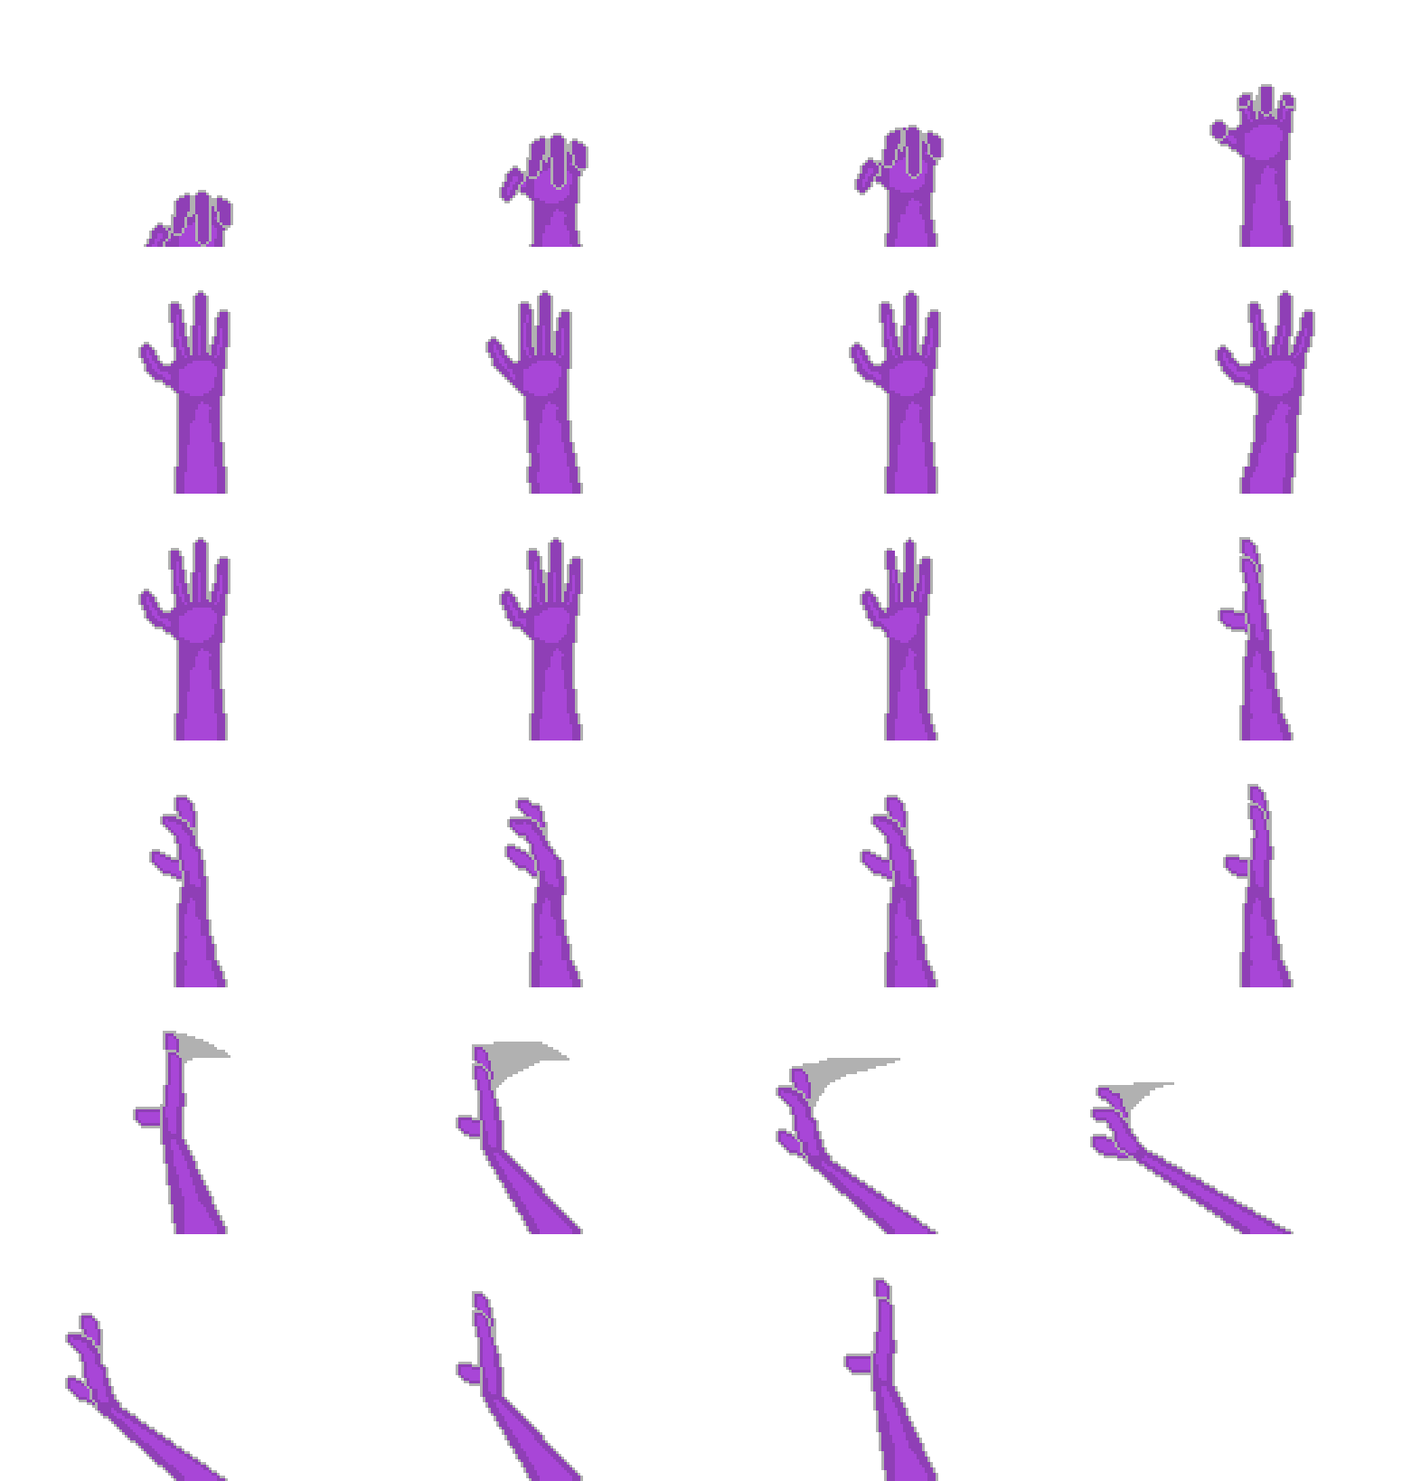
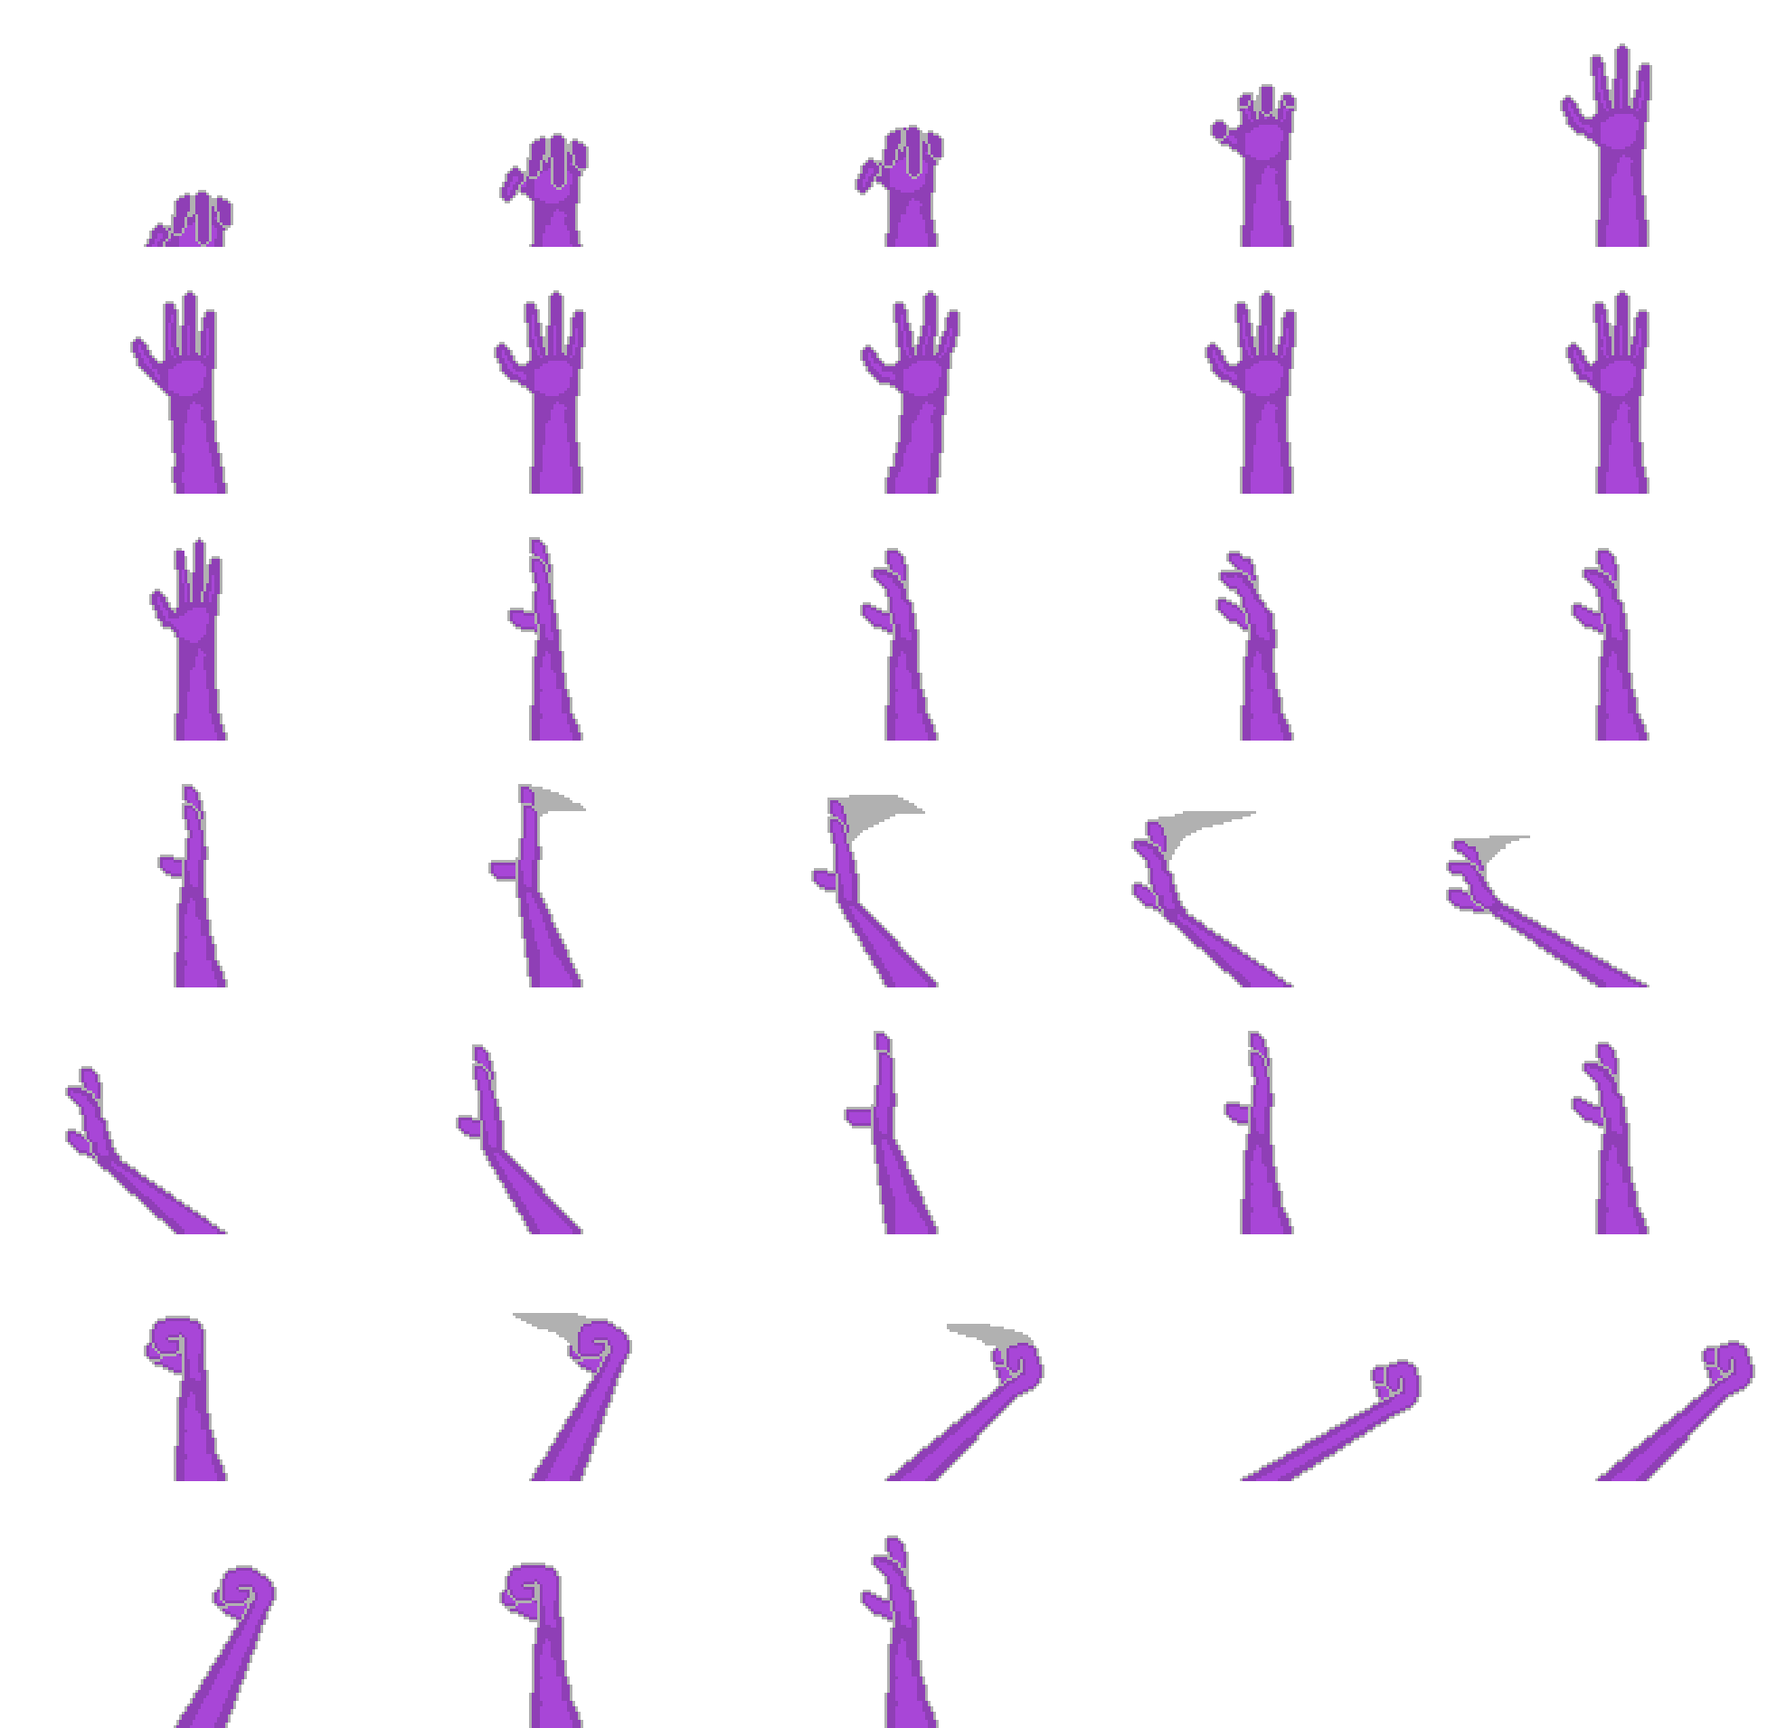
new arm attack
new arm attack now has functionality.

diff --git a/scripts/enemyScripts/bosses/matangoRoot.js b/scripts/enemyScripts/bosses/matangoRoot.js
@@ -36,6 +36,7 @@ class matangoRoot extends matangoRootUnbirth {
         this.inEmergingAnimation = false;
         this.poppedOut = false;
         this.enemyHP = 200;
+        this.enemyHPMax = 200;
         this.turning = false;
         this.idleState = 0;
         this.rootNode = null; 
@@ -51,6 +52,11 @@ class matangoRoot extends matangoRootUnbirth {
         this.grabHitBox = new hitBoxes(scene,this.x,this.y);
         this.grabHitBox.setSize(30,10,true);
         this.hitBoxHide();
+
+        //make a hitbox so the cat can attack the player.
+        this.attackHitBox = new hitBoxes(scene,this.x,this.y);
+        this.attackHitBox.setSize(30,10,true);
+        this.attackHitBoxHide();
         
         //defines Enemy animations based on the players sex.
         if (this.enemySex === 0) {
@@ -67,6 +73,7 @@ class matangoRoot extends matangoRootUnbirth {
             this.anims.create({ key: 'from1to0-1', frames: this.anims.generateFrameNames('Matango-Root-F-1', { start: 29, end: 29 }), frameRate: 20, repeat: 0 });
             this.anims.create({ key: 'from1to0-2', frames: this.anims.generateFrameNames('Matango-Root-F-1', { start: 28, end: 28 }), frameRate: 20, repeat: 0 });
             this.anims.create({ key: 'AngleIdle', frames: this.anims.generateFrameNames('Matango-Root-F-1', { start: 30, end: 35 }), frameRate: 10, repeat: 0 });
+            this.anims.create({ key: 'AngleIdleLoop', frames: this.anims.generateFrameNames('Matango-Root-F-1', { start: 30, end: 35 }), frameRate: 10, repeat: -1 });
 
             this.anims.create({ key: 'from1to2', frames: this.anims.generateFrameNames('Matango-Root-F-1', { start: 36, end: 37 }), frameRate: 20, repeat: 0 });
             this.anims.create({ key: 'from2to1-1', frames: this.anims.generateFrameNames('Matango-Root-F-1', { start: 37, end: 37 }), frameRate: 20, repeat: 0 });
@@ -336,7 +343,7 @@ class matangoRoot extends matangoRootUnbirth {
                 }
 
             //ai to have the mushroom perform attacks.
-            }else if(this.turning === false && this.attackCooldown === false && this.isAttacking === false){  
+            }else if(this.turning === false && this.attackCooldown === false && this.isAttacking === false && this.scene.playerStuckGrabbedBy !== "knockdown"){  
                 if(this.checkXRangeFromPlayer(30, 30) && this.checkYRangeFromPlayer(50,60) ){
 
                     this.grabType = "absorb";
@@ -354,7 +361,7 @@ class matangoRoot extends matangoRootUnbirth {
                     this.centerHands.anims.play('centerHandGrabStart').once('animationcomplete', () => {
 
                         this.hitBoxPositionActive(this.x,this.y+45);
-                        this.grabHitBox.setSize(70, 20, true);
+                        this.grabHitBox.setSize(90, 20, true);
 
                         this.centerHands.anims.play('centerHandGrabMiddle').once('animationcomplete', () => {
 
@@ -375,7 +382,7 @@ class matangoRoot extends matangoRootUnbirth {
                                     let temp = this;
                                     setTimeout(function () {
                                         temp.attackCooldown = false;
-                                    }, 1500);
+                                    }, 1000);
                                 });
                             }
                         });
@@ -433,21 +440,94 @@ class matangoRoot extends matangoRootUnbirth {
                             let temp = this;
                             setTimeout(function () {
                                 temp.attackCooldown = false;
-                            }, 1500);
+                            }, 1000);
 
                             });
                         });
                         
                     });
 
+                }else if(this.checkXRangeFromPlayer(130, 130) && this.checkYRangeFromPlayer(50,60) ){
+
+                    this.isAttacking = true;
+
+                    this.anims.play('AngleIdleLoop',true);
+                    
+                    //if player to the left move the grab hitbox to the left
+                    if(this.scene.player1.x > this.x){
+                        this.flipX = true;
+                        this.rightHand.anims.play('knockdownstart').once('animationcomplete', () => {
+                            this.attackHitBoxPositionActive(this.x+95,this.y+45);
+                            this.attackHitBox.setSize(60, 10, true);
+                            this.rightHand.anims.play('knockdownMiddle').once('animationcomplete', () => {
+                                this.attackHitBoxHide();
+                                this.rightHand.anims.play('knockdownEnd').once('animationcomplete', () => {
+                                    this.attackCooldown = true;
+                                    this.isAttacking = false;
+
+                                    let temp = this;
+                                    setTimeout(function () {
+                                        temp.attackCooldown = false;
+                                    }, 1000);
+                                });
+                            });
+                        });
+                    }else{
+                        this.flipX = false;
+                        this.leftHand.anims.play('knockdownstart').once('animationcomplete', () => {
+                            this.attackHitBoxPositionActive(this.x-95,this.y+45);
+                            this.attackHitBox.setSize(60, 20, true);
+                            this.leftHand.anims.play('knockdownMiddle').once('animationcomplete', () => {
+                                this.attackHitBoxHide();
+                                this.leftHand.anims.play('knockdownEnd').once('animationcomplete', () => {
+                                    this.attackCooldown = true;
+                                    this.isAttacking = false;
+
+                                    let temp = this;
+                                    setTimeout(function () {
+                                        temp.attackCooldown = false;
+                                    }, 1000);
+                                });
+                            });
+                        });
+                    }
+
+                   
+
+
                 }else{
+
                     this.isAttacking = true;
                     this.attackCooldown = true;
                     let temp = this;
+
+                    if(this.enemyHP > 170 ){
+                        if(this.scene.player1.x > this.x){
+                            this.scene.initSporeCloud(this.x,this.y+50,"left",80,5000);
+                        }else{
+                            this.scene.initSporeCloud(this.x,this.y+50,"right",80,5000);
+                        }
+                    }else{
+
+                        if(this.scene.player1.x > this.x){
+                            this.scene.initSporeCloud(this.x,this.y+50,"left",100,3000);
+
+                            setTimeout(function () {
+                                temp.scene.initSporeCloud(temp.x,temp.y-20,"left",100,3000);
+                            }, 1000);
+                        }else{
+                            this.scene.initSporeCloud(this.x,this.y+50,"right",100,3000);
+                            setTimeout(function () {
+                                temp.scene.initSporeCloud(temp.x,temp.y-20,"right",100,3000);
+                            }, 1000);
+                        }
+                    }
+                    
+
                     setTimeout(function () {
                         temp.isAttacking = false;
                         temp.attackCooldown = false;
-                    }, 1500);
+                    }, 2000);
 
                 }
             }
@@ -467,6 +547,7 @@ class matangoRoot extends matangoRootUnbirth {
     }
 
     resetVariables(){
+        
         this.flipX = false;
         this.struggleFree = false;
         this.playerBrokeFree = 0;

diff --git a/scripts/sceneScripts/sceneHirarchy/G8InitEnemys.js b/scripts/sceneScripts/sceneHirarchy/G8InitEnemys.js
@@ -896,8 +896,28 @@ class G8InitEnemys extends G7EnemyCollisions{
                 tempSceneRef.grabCoolDown = true;
                 console.log('player grabbed by mush');
               }
-            });
-            mush.addColliderRef(collider1);
+          });
+          mush.addColliderRef(collider1);
+          //attack hitbox logic
+          collider1 = tempSceneRef.physics.add.overlap(tempSceneRef.player1.mainHitbox, mush.attackHitBox, function () {
+            let isWindowObject = {
+              isOpen: null
+            };
+            console.log("mushroom attack collider overlaping with player!");
+            inventoryKeyEmitter.emit(inventoryKey.isWindowOpen,isWindowObject);
+
+            if (isWindowObject.isOpen === true) {
+              inventoryKeyEmitter.emit(inventoryKey.activateWindow,scene);
+            }
+
+            //apply stuckgrab logic.
+            tempSceneRef.playerStuckGrab = true;
+            tempSceneRef.playerStuckGrabbedBy = "knockdown";
+            tempSceneRef.playerStuckGrabCap = 40;
+            tempSceneRef.enemyThatknockdownPlayer = mush;
+
+          });
+          mush.addColliderRef(collider1);
         }
       },
       matangoRootUnbirth: function matangoRootUnbirthFunction(startX, startY, playerSex,inSafeMode,rootNode) {
@@ -1184,10 +1204,10 @@ class G8InitEnemys extends G7EnemyCollisions{
 
       }
       //use the enemy to tell where the player should be flung
-      if(this.enemyThatknockdownPlayer.flipX === true && this.player1.mainHitbox.body.blocked.down === false){
+      if(this.enemyThatknockdownPlayer.knockdownDirection === false && this.player1.mainHitbox.body.blocked.down === false){
         //fling player left
         this.player1.mainHitbox.setVelocityX(-140);
-      }if(this.enemyThatknockdownPlayer.flipX === false && this.player1.mainHitbox.body.blocked.down === false){
+      }if(this.enemyThatknockdownPlayer.knockdownDirection === true && this.player1.mainHitbox.body.blocked.down === false){
         //fling player left
         this.player1.mainHitbox.setVelocityX(140);
       }else if(this.player1.mainHitbox.body.blocked.down === true && this.knockdownLaunchedUp === true){

diff --git a/scripts/enemyScripts/lockwood/mushroom.js b/scripts/enemyScripts/lockwood/mushroom.js
@@ -170,12 +170,10 @@ class mushroom extends enemy {
                             this.anims.play("shroomDanceStart",true).once('animationcomplete', () =>{
 
                                 if(this.scene.player1.x > this.x){
-                                    this.scene.initSporeCloud(this.x,this.y,"left");
+                                    this.scene.initSporeCloud(this.x,this.y,"left",30,1500);
                                 }else{
-                                    this.scene.initSporeCloud(this.x,this.y,"right");
+                                    this.scene.initSporeCloud(this.x,this.y,"right",30,1500);
                                 }
-
-                                this.scene.initSporeCloud(this.x,this.y,this.direction);
 
                                 //this.anims.play("shroomDanceEnd",true).once('animationcomplete', () =>{
                                     this.sporeDanceLock = false;
@@ -205,9 +203,9 @@ class mushroom extends enemy {
                         this.scene.initSoundEffect('growSFX','3',0.05);
                         this.anims.play('becomeHidden').once('animationcomplete', () => {
 
-                            this.scene.initSporeCloud(this.x,this.y,"left");
+                            this.scene.initSporeCloud(this.x,this.y,"left",30,1500);
 
-                            this.scene.initSporeCloud(this.x,this.y,"right");
+                            this.scene.initSporeCloud(this.x,this.y,"right",30,1500);
 
                             this.isHiding = true;
                             this.inEmergingAnimation = false;
@@ -275,7 +273,7 @@ class mushroom extends enemy {
                     this.lightSource.radius = 130;
                     this.lightSource.intensity = 0.9;
                     this.scene.initSoundEffect('growSFX','1',0.05);
-                    this.scene.initSporeCloud(this.x,this.y,"still");
+                    this.scene.initSporeCloud(this.x,this.y,"still",0,1500);
 
                 }
  

diff --git a/scripts/gameObjectScripts/sporeCloud.js b/scripts/gameObjectScripts/sporeCloud.js
@@ -1,7 +1,7 @@
 //once the player has the double jump skill, they create this platform under them as a visual effect to show they jumped off something during the double jump.
 class sporeCloud extends Phaser.Physics.Arcade.Sprite{
     // every class needs constructor
-    constructor(scene, xPos, yPos,direction){
+    constructor(scene, xPos, yPos,direction,speed,duration){
       //super() calls the constructor() from the parent class we are extending
       super(scene, xPos, yPos, 'sporeCloud');
       //then we add new instance into the scene. when ising this inside a class definition is refering to the instance of the class
@@ -28,6 +28,8 @@ class sporeCloud extends Phaser.Physics.Arcade.Sprite{
         this.anims.play("SporeLinger",true);
       });
 
+      this.speed = speed;
+      this.duration = duration;
       this.destroying = false;
 
       this.followingPlayer = true;
@@ -43,7 +45,7 @@ class sporeCloud extends Phaser.Physics.Arcade.Sprite{
       setTimeout(function(){
         tempSporeCloud.followingPlayer = false;
         tempSporeCloud.destroysporeCloud();
-      },1500);
+      },this.duration);
       
     }
 

diff --git a/scripts/gameObjectScripts/mushroomHandSingle.js b/scripts/gameObjectScripts/mushroomHandSingle.js
@@ -25,6 +25,9 @@ class mushroomHandSingle extends Phaser.Physics.Arcade.Sprite{
         this.anims.create({ key: 'grabTell', frames: this.anims.generateFrameNames('mushroom-hands-single', { start: 11, end: 15 }), frameRate:  10, repeat: -1 });
         this.anims.create({ key: 'grabStart', frames: this.anims.generateFrameNames('mushroom-hands-single', { start: 15, end: 19 }), frameRate:  10, repeat: 0 });
         this.anims.create({ key: 'grabEnd', frames: this.anims.generateFrameNames('mushroom-hands-single', { start: 20, end: 22 }), frameRate:  10, repeat: 0 });
+        this.anims.create({ key: 'knockdownstart', frames: this.anims.generateFrameNames('mushroom-hands-single', { start: 23, end: 24 }), frameRate:  3, repeat: 0 });
+        this.anims.create({ key: 'knockdownMiddle', frames: this.anims.generateFrameNames('mushroom-hands-single', { start: 25, end: 28 }), frameRate:  10, repeat: 0 });
+        this.anims.create({ key: 'knockdownEnd', frames: this.anims.generateFrameNames('mushroom-hands-single', { start: 29, end: 32 }), frameRate:  8, repeat: 0 });
         
   
 

diff --git a/scripts/enemyScripts/lockwood/enemy.js b/scripts/enemyScripts/lockwood/enemy.js
@@ -90,6 +90,8 @@ class enemy extends Phaser.Physics.Arcade.Sprite {
         this.struggleValue = 20;
 
         this.spitUp = false;
+
+        this.knockdownDirection = false;
         
     }
 
@@ -308,6 +310,16 @@ class enemy extends Phaser.Physics.Arcade.Sprite {
     hitBoxHide(){
         this.grabHitBox.x = this.x;
         this.grabHitBox.y = this.y + 3000; 
+    }
+
+    attackHitBoxPositionActive(xValue,yValue){
+         this.attackHitBox.x = xValue;
+         this.attackHitBox.y = yValue;
+    }
+
+    attackHitBoxHide(){
+        this.attackHitBox.x = this.x;
+        this.attackHitBox.y = this.y + 3000; 
     }
 
     //function to handle reduction of struggle counter overtime.

diff --git a/scripts/sceneScripts/sceneHirarchy/G11CheckGameObjects.js b/scripts/sceneScripts/sceneHirarchy/G11CheckGameObjects.js
@@ -257,6 +257,7 @@ class G11CheckGameObjects extends G10CheckNPCS {
     }, this);
   }
 
+
   checkSporeCloudProjectiles(){
 
      let tempScene = this;
@@ -265,9 +266,9 @@ class G11CheckGameObjects extends G10CheckNPCS {
 
       //handle direction where mushroom spore cloud floats
       if(tempProjectile.direction === 'left'){
-        tempProjectile.setVelocityX(30);
+        tempProjectile.setVelocityX(tempProjectile.speed);
       }else if(tempProjectile.direction === 'right'){
-        tempProjectile.setVelocityX(-30);
+        tempProjectile.setVelocityX(-tempProjectile.speed);
       }else{
         tempProjectile.setVelocityX(0);
       }     

diff --git a/scripts/enemyScripts/lockwood/whiteCat.js b/scripts/enemyScripts/lockwood/whiteCat.js
@@ -579,6 +579,8 @@ class whiteCat extends enemy {
         //handles attack hit box positioning
         if(this.attackHitboxActive === true){
 
+            this.knockdownDirection = !this.flipX;
+            
             //hitbox should be to left if player is to the left
             if(this.flipX === true){
                 console.log("moving cat hitbox to the left");

diff --git a/scripts/sceneScripts/sceneHirarchy/G4InitGameObjects.js b/scripts/sceneScripts/sceneHirarchy/G4InitGameObjects.js
@@ -407,8 +407,8 @@ class G4InitGameObjects extends G3SetupCollisionFunctions {
 
     }
 
-    initSporeCloud(x,y,direction){
-      let tempSporeCloud = new sporeCloud(this,x,y,direction);
+    initSporeCloud(x,y,direction,speed,duration){
+      let tempSporeCloud = new sporeCloud(this,x,y,direction,speed,duration);
 
       this.sporeClouds.add(tempSporeCloud);
 

diff --git a/scripts/enemyScripts/lockwood/rabbit.js b/scripts/enemyScripts/lockwood/rabbit.js
@@ -742,6 +742,7 @@ class rabbit extends enemy {
         //handles attack hit box positioning
         if(this.attackHitboxActive === true){
 
+            this.knockdownDirection = !this.flipX;
             //hitbox should be to left if player is to the left
             if(this.flipX === true){
                 console.log("moving cat hitbox to the left");

diff --git a/scripts/enemyScripts/lockwood/bat.js b/scripts/enemyScripts/lockwood/bat.js
@@ -737,6 +737,7 @@ class bat extends enemy {
         //handles attack hit box positioning
         if(this.attackHitboxActive === true){
 
+            this.knockdownDirection = !this.flipX;
             //hitbox should be to left if player is to the left
             if(this.flipX === true){
                 console.log("moving cat hitbox to the left");

diff --git a/index.html b/index.html
@@ -221,7 +221,7 @@
           default: 'arcade',
           arcade: {
             // debug is excelent for testing velocity and hitboxes.
-            debug: false
+            debug: true
           }
         },
         // loads animated tile plugin?
